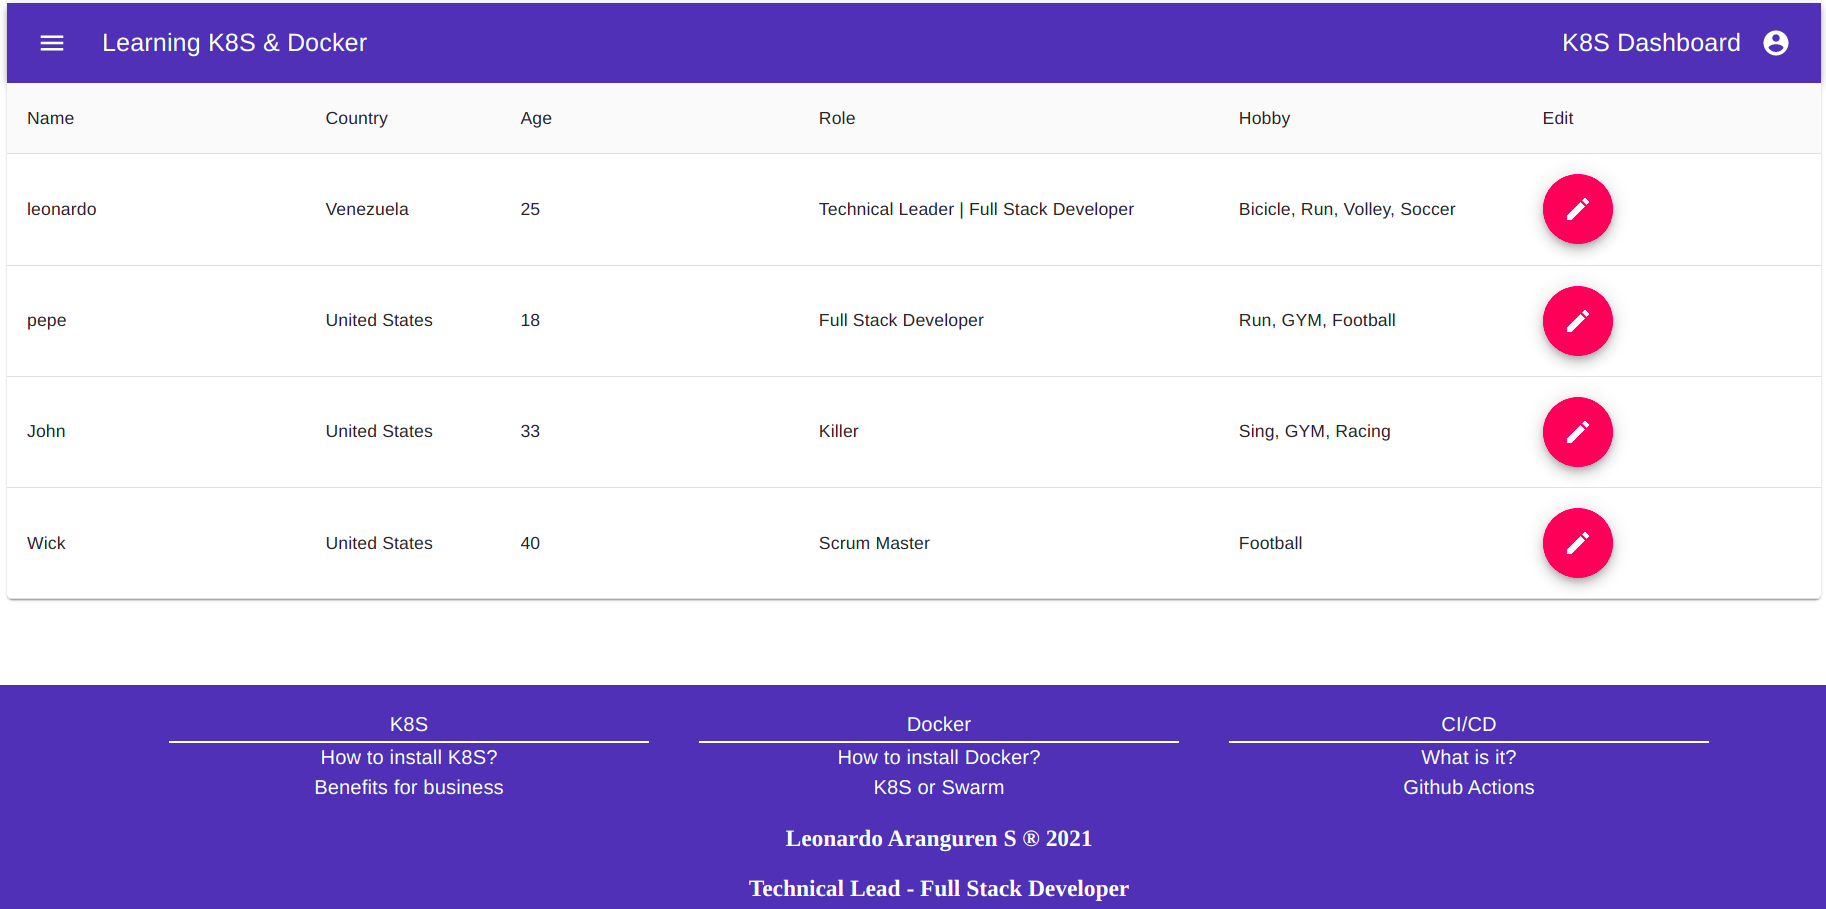
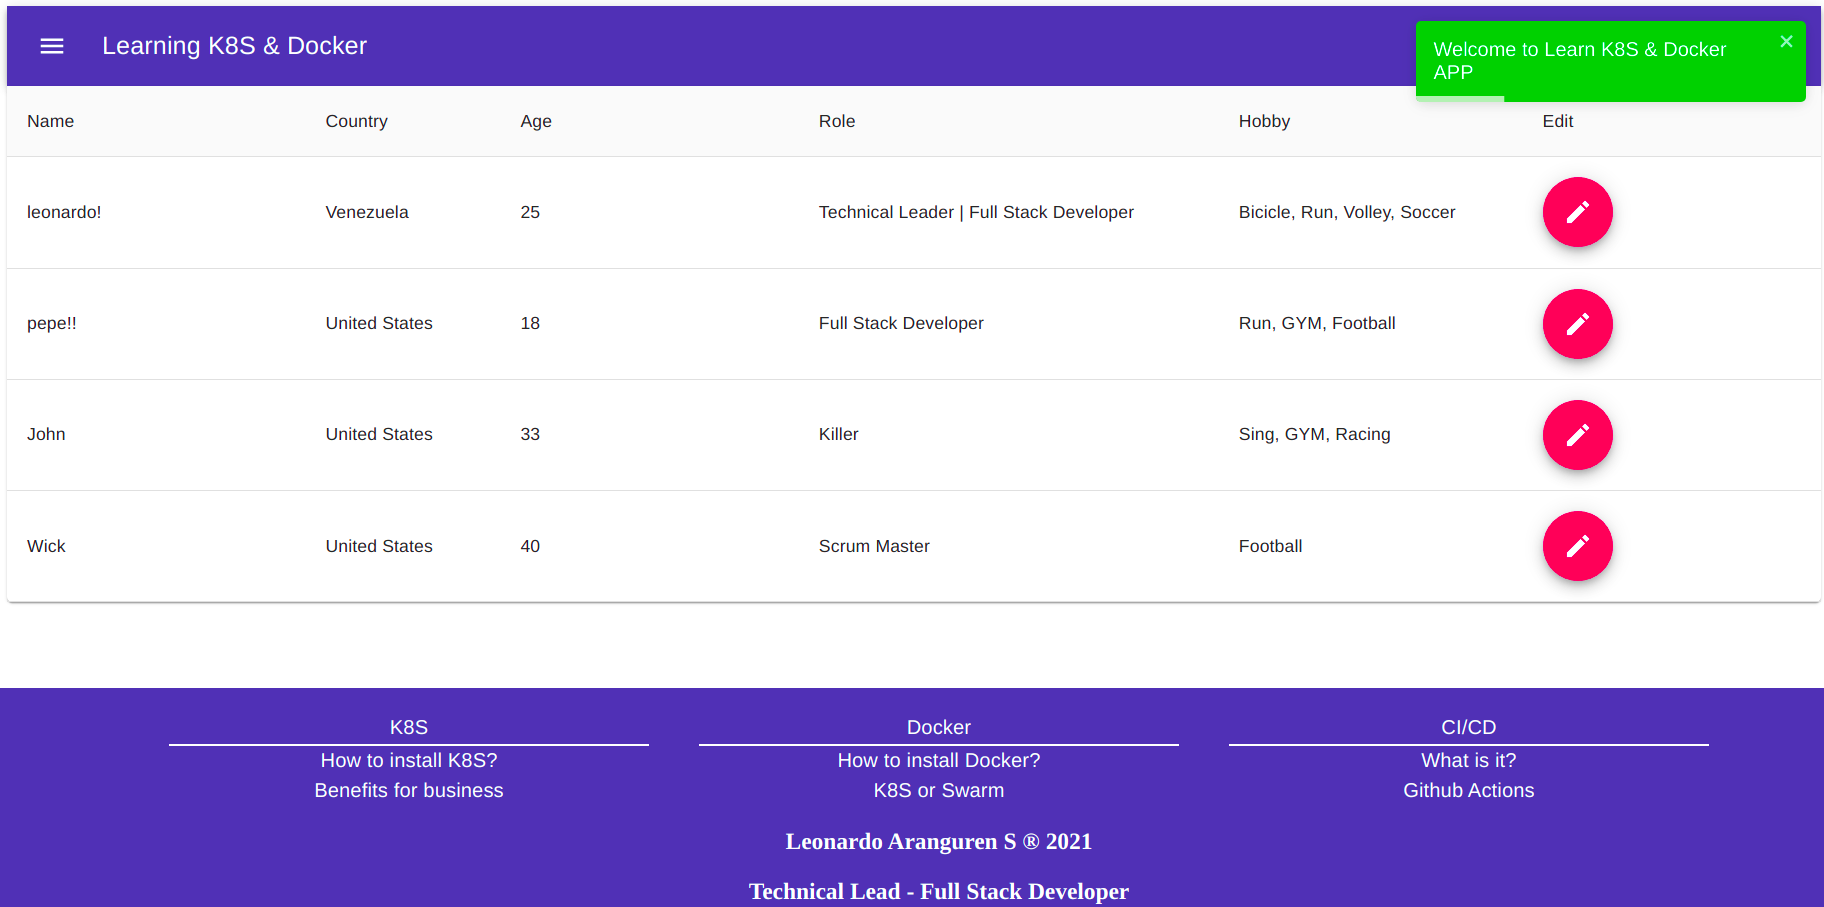
Adding: toastify library for UX

diff --git a/react-app/src/store/store.js b/react-app/src/store/store.js
@@ -1,5 +1,6 @@
 import React, { useState, useEffect } from 'react';
 import axios from 'axios';
+import { toast } from 'react-toastify';
 
 export const Context = React.createContext({
     users: [],
@@ -10,6 +11,7 @@ export const Context = React.createContext({
     handleUserEdit: (payload) => {},
     customModalEditOpen: false,
     handleCustomModalEditOpen: () => {},
+    toastrNotify: (message, type) => {},
 });
 
 export default (props) => {
@@ -17,15 +19,32 @@ export default (props) => {
     const [token, setToken] = useState(localStorage.getItem('token'));
     const [userId, setUserId] = useState(localStorage.getItem('userId'));
     const [customModalEditOpen, setCustomModalEditOpen] = useState(false);
+    const [expiryDate, setExpiryDate] = useState(
+        localStorage.getItem('expiryDate')
+    );
 
     useEffect(async () => {
         try {
+            if (new Date(expiryDate) <= new Date()) {
+                console.log('leo');
+                handleLogout(true);
+            } else {
+                setAutoLogout(expiryDate);
+            }
             const { data } = await axios.get('/api/fake-data');
             await setUsers(data.fakeData);
         } catch (error) {
             console.error('Error => ', error);
         }
     }, []);
+
+    const toastrNotify = (message, type) => {
+        try {
+            toast(message, { type: type });
+        } catch (error) {
+            console.error('Error toastrNotify () => ', error);
+        }
+    };
 
     const retrieveTokenAndUserId = async (tk, userId) => {
         try {
@@ -37,29 +56,48 @@ export default (props) => {
     };
 
     const handleUserEdit = async (payload) => {
-        const { data } = await axios.post('api/fake-data/edit-user', {
-            payload,
-        });
-        let userIndex = users.findIndex((user) => user._id == data.user._id);
-        const updatedUsers = [...users];
-        updatedUsers[userIndex] = data.user;
-        await setUsers(updatedUsers);
-        handleCustomModalEditOpen();
+        try {
+            const { data } = await axios.post('api/fake-data/edit-user', {
+                payload,
+            });
+            let userIndex = users.findIndex(
+                (user) => user._id == data.user._id
+            );
+            const updatedUsers = [...users];
+            updatedUsers[userIndex] = data.user;
+            await setUsers(updatedUsers);
+            toastrNotify('Edit User Succesfull', 'success');
+            handleCustomModalEditOpen();
+        } catch (error) {
+            toastrNotify('No Data for Edit User', 'error');
+            console.error('handleUserEdit() => ', error);
+        }
     };
 
     const handleCustomModalEditOpen = () => {
         setCustomModalEditOpen(!customModalEditOpen);
     };
 
-    const handleLogout = async () => {
+    const handleLogout = async (usingUseEffect = false) => {
         try {
+            if (!usingUseEffect) {
+                toastrNotify('Bye bye! See ya!', 'success');
+            }
             localStorage.removeItem('token');
             localStorage.removeItem('userId');
+            localStorage.removeItem('expiryDate');
             await setToken('');
             await setUserId('');
+            await setExpiryDate('');
         } catch (error) {
             console.error('logout() => ', error);
         }
+    };
+
+    const setAutoLogout = (milliseconds) => {
+        setTimeout(() => {
+            handleLogout(true);
+        }, milliseconds);
     };
 
     return (
@@ -73,6 +111,7 @@ export default (props) => {
                 handleLogout: handleLogout,
                 customModalEditOpen: customModalEditOpen,
                 handleCustomModalEditOpen: handleCustomModalEditOpen,
+                toastrNotify: toastrNotify,
             }}
         >
             {props.children}

diff --git a/react-app/src/pages/Login.js b/react-app/src/pages/Login.js
@@ -28,6 +28,7 @@ const Login = ({ title, buttonTitle }) => {
         password: '',
     });
     const retrieveTokenAndUserId = useContext(Context).retrieveTokenAndUserId;
+    const toastrNotify = useContext(Context).toastrNotify;
 
     const handleOnChange = (event) => {
         const { name, value } = event.target;
@@ -42,14 +43,16 @@ const Login = ({ title, buttonTitle }) => {
             });
             setAuth({ username: '', password: '' });
             retrieveTokenAndUserId(data.token, data.userId);
+            toastrNotify('Welcome to Learn K8S & Docker APP', 'success');
             localStorage.setItem('token', data.token);
             localStorage.setItem('userId', data.userId);
-            const remainingMilliseconds = 60 * 60 * 1000;
+            const remainingMilliseconds = 100000;
             const expiryDate = new Date(
                 new Date().getTime() + remainingMilliseconds
             );
             localStorage.setItem('expiryDate', expiryDate.toISOString());
         } catch (error) {
+            toastrNotify('No Data for Submit', 'error');
             console.error('Error submit() => ', error);
         }
     };

diff --git a/react-app/src/App.js b/react-app/src/App.js
@@ -3,8 +3,10 @@ import Login from './pages/Login';
 import Dashboard from './pages/Dashboard';
 import Credentials from './components/Credentials';
 import CircularProgress from '@material-ui/core/CircularProgress';
-import Layout from './Layout';
+import Layout from './pages/Layout';
 import { Context } from './store/store';
+import { ToastContainer, toast } from 'react-toastify';
+import 'react-toastify/dist/ReactToastify.css';
 
 const App = () => {
     const users = useContext(Context).users;
@@ -29,7 +31,12 @@ const App = () => {
         );
     }
 
-    return <Layout>{initPage}</Layout>;
+    return (
+        <Layout>
+            <ToastContainer />
+            {initPage}
+        </Layout>
+    );
 };
 
 export default App;

diff --git a/react-app/src/components/Dashboard/UserEdit.js b/react-app/src/components/Dashboard/UserEdit.js
@@ -1,4 +1,4 @@
-import React, { useState, useContext } from 'react';
+import React, { useContext } from 'react';
 import Fab from '@material-ui/core/Fab';
 import EditIcon from '@material-ui/icons/Edit';
 import CustomModalEdit from '../CustomModalEdit';

diff --git a/react-app/src/pages/Layout.js b/react-app/src/pages/Layout.js
@@ -1,4 +1,4 @@
-import Footer from './components/Layout/Footer';
+import Footer from '../components/Layout/Footer';
 
 const Layout = ({ children }) => {
     return (
